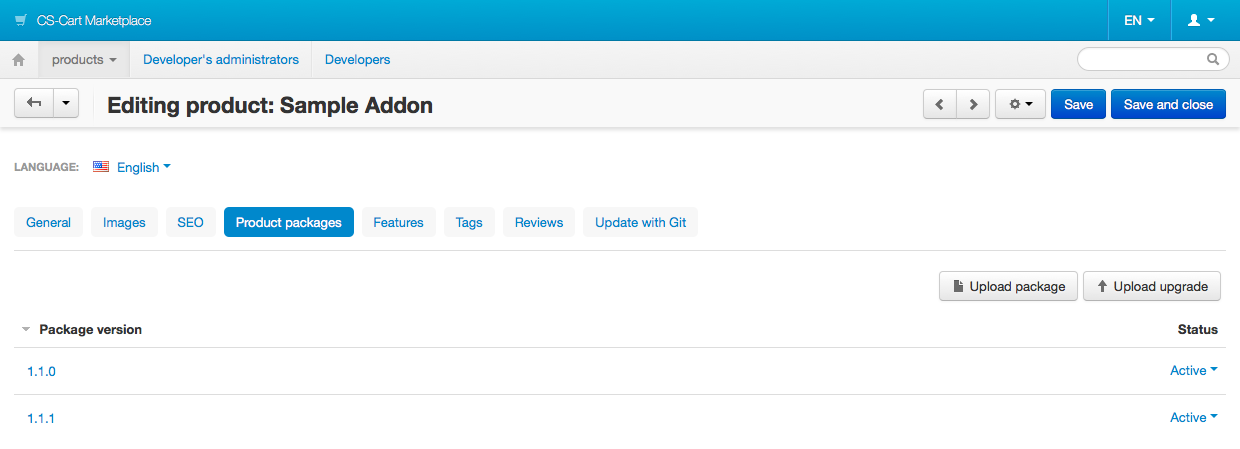
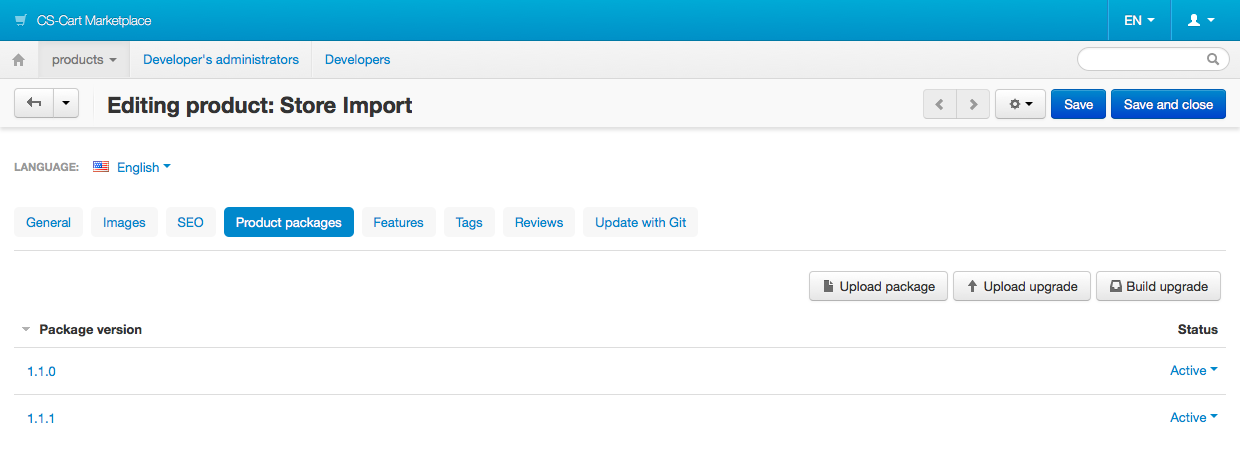
Dev Guide: Addons: Marketplace: Added info about Bitbucket an package building.

diff --git a/developer_guide/addons/marketplace/addon_upgrade.rst b/developer_guide/addons/marketplace/addon_upgrade.rst
@@ -2,10 +2,6 @@
 Distributing Add-on Upgrades via the Marketplace
 ************************************************
 
-=======================================
-Step 1. Build an Add-on Upgrade Package
-=======================================
-
 An upgrade package is an archive that contains all the files necessary to upgrade a customer’s add-on automatically. Normally this archive includes:
 
 * Files that were changed or added in the new version.
@@ -24,9 +20,97 @@ Upgrade packages can be installed in the Upgrade Center in one of the ways:
 
 This article tells how add-on developers can create upgrade packages for their add-ons.
 
--------------------------------------------
-Way 1. Building an Upgrade Package Manually
--------------------------------------------
+===========================================
+Preface: Recommended Structure of an Add-on
+===========================================
+
+.. _marketplace-addon-structure:
+
+If you want to build upgrade packages via the Marketplace, please follow this structure when developing an add-on:
+
+.. code::
+
+    ├── app
+    │   └── addons
+    │       └── [sample_addon]
+    │           ├── addon.xml
+    │           ├── config.php
+    │           ├── func.php
+    │           └── upgrades
+    │               ├── [version1]
+    │               │   ├── migrations
+    │               │   │   ├── 467676233_migration1.php
+    │               │   │   └── 467676233_migration2.php
+    │               │   │
+    │               │   ├── validators
+    │               │   │   ├── validator1.php
+    │               │   │   └── validator2.php
+    │               │   │
+    │               │   ├── scripts
+    │               │   │   ├── pre_script.php
+    │               │   │   └── post_script.php
+    │               │   │
+    │               │   ├── extra_files
+    │               │   │   ├── extra_file1.php
+    │               │   │   └── extra_file2.php
+    │               │   │
+    │               │   └── extra
+    │               │       └── extra.php
+    │               │
+    │               ├── [version2]
+    │                   │   ├── migrations
+    │                   │   │   ├── 467676233_migration1.php
+    │                   │   │   └── 467676233_migration2.php
+    │                   │   │
+    │                   │   ├── validators
+    │                   │   │   ├── validator1.php
+    │                   │   │   └── validator2.php
+    │                   │   │
+    │                   │   ├── scripts
+    │                   │   │   ├── pre_script.php
+    │                   │   │   └── post_script.php
+    │                   │   │
+    │                   │   ├── extra_files
+    │                   │   │   ├── extra_file1.php
+    │                   │   │   └── extra_file2.php
+    │                   │   │
+    │                   │   ├── extra
+    │                   │   │   └── extra.php
+    ...
+
+* **[sample_addon]**—the name of the add-on.
+
+* **[version1]**—a version, for example 1.1.0.
+
+* **[version2]**—a version, for example 1.1.1.
+
+* **app/addons/[sample_addon]/upgrades/[version]/migrations**—a folder with the migrations to be performed when upgrading to this [version].
+
+* **app/addons/[sample_addon]/upgrades/[version]/validators**—a folder with the validators which must run their checks before upgrading to this [version].
+
+* **app/addons/[sample_addon]/upgrades/[version]/scripts**—a folder with pre/post scripts to be executed before and after upgrading to this [version].
+
+* **app/addons/[sample_addon]/upgrades/[version]/extra_files**—a folder with the extra files that are used only during the upgrade and aren't added to CS-Cart/Multi-Vendor.
+ 
+* **app/addons/[sample_addon]/upgrades/[version]/extra/extra.php**—a file for extending **package.json** of the upgrade package.
+
+Files and folders in *app/addons/[sample_addon]/upgrades/[version]* aren't required. For example, if the new version has no changes in the database, there's no need to create a folder with migrations.
+
+.. hint::
+
+    Learn more about the components of an upgrade package :ref:`here <upgrade-package-structure>`.
+
+===============================
+Build an Add-on Upgrade Package
+===============================
+
+----------------------------------------
+Way 1. Build an Upgrade Package Manually
+----------------------------------------
+
+""""""""""""""""""""""""""""""""""
+Step 1. Create the Upgrade Package
+""""""""""""""""""""""""""""""""""
 
 Create an upgrade package as described :doc:`in this article <../../../upgrade/upgrade_addon>`. Instead of creating an upgrade connector you’ll need a Marketplace connector. It must be located in the *app/addons/[addon_name]/Tygh/UpgradeCenter/Connectors/[AddonName]/Connector.php* and have the following content:
 
@@ -147,46 +231,65 @@ Create an upgrade package as described :doc:`in this article <../../../upgrade/u
 
     The Marketplace connector will be built in CS-Cart & Multi-Vendor starting with version 4.4.1. That means you won’t have to create upgrade connectors for these versions.
 
--------------------------------------------------------
-Way 2. Building an Upgrade Package with the Marketplace
--------------------------------------------------------
-
-.. important::
-
-    We plan to implement this functionality in the near future.
-
-=============================================
+"""""""""""""""""""""""""""""""""""""""""""""
 Step 2. Upload the Package to the Marketplace
-=============================================
+"""""""""""""""""""""""""""""""""""""""""""""
 
-2.1. Open the add-on editing page on the Marketplace.
+1. Open the add-on editing page on the Marketplace.
 
-2.2. Go to the **Product packages** tab.
+2. Go to the **Product packages** tab.
 
-2.3. Click **Upload upgrade**.
+3. Click **Upload upgrade**.
 
 .. image:: img/package_list.png
 	:align: center
 	:alt: You can upload an upgrade package on the package list, which is available on the Product packages tab.
 
-2.4. Use the **File** field to select the archive you created.
+4. Use the **File** field to select the archive you created.
 
-2.5. Specify the versions in the **Upgrade from** and **Upgrade to** fields.
+5. Specify the versions in the **Upgrade from** and **Upgrade to** fields.
 
-2.6. (Optional) Enter **Package description**.
+6. (Optional) Enter **Package description**.
 
-2.7. Click **Create**.
+7. Click **Create**.
 
 .. image:: img/upload_upgrade.png
 	:align: center
 	:alt: When you upload an upgrade to the Marketplace,  you specify from and to which versions the add-on is upgraded.
 
+---------------------------------------------------
+Way 2. Build an Upgrade Package via the Marketplace
+---------------------------------------------------
+
+.. important::
+
+    To be able to build upgrade packages via the Marketplace, please follow the :ref:`recommended structure of an add-on <marketplace-addon-structure>`.
+
+1. Open the add-on editing page on the Marketplace.
+
+2. Switch to the **Product packages** tab.
+
+3. Click **Build upgrade**.
+
+.. image:: img/package_list.png
+	:align: center
+	:alt: Go to the Product packages tab and click Build upgrade.
+
+4. Specify the versions in the **Upgrade from** and **Upgrade to** fields.
+
+5. (Optional) Enter **Package description**.
+
+6. Click **Create**.
+
+.. image:: img/build_upgrade_via_marketplace.png
+	:align: center
+	:alt: Specify the properties of the upgrade package you're building.
 
 .. _test-addon-package:
 
-===========================================
-Step 3. View and Test Your Upgrade Packages
-===========================================
+===================================
+View and Test Your Upgrade Packages
+===================================
 
 The list of upgrade packages is available on the **Product packages** tab of your add-on:
 
@@ -209,4 +312,3 @@ You'll find the access token on your profile editing page in the Marketplace:
 .. image:: img/access_token.png
 	:align: center
 	:alt: To test a disabled upgrade package, open the editing page of your profile on the Marketplace.
-

diff --git a/developer_guide/addons/marketplace/git_delivery.rst b/developer_guide/addons/marketplace/git_delivery.rst
@@ -26,7 +26,7 @@ Connecting Repository to the Marketplace
 GitHub
 ------
 
-1. Open the repository of the add-on on GitHub to find out where to get the values for the settings in the Marketplace:
+1. Go to the repository of the add-on on GitHub to find out where to get the values for the settings in the Marketplace:
 
    * **Repository owner**—the username [1].
 
@@ -104,6 +104,64 @@ GitHub
 	:align: center
 	:alt: Enter webhook URL and secret, and select the content type.
 
+---------
+Bitbucket
+---------
+
+1. Go to the repository of the add-on on Bitbucket and switch to the **Source** tab [1] to find out where to get the values for the settings in the Marketplace:
+
+   * **Repository owner**—enter the username from the URL [2].
+
+   * **Repository name**—enter the name of the repository from the URL [3].
+
+   * **Branch name**—enter one of the branches that exist in the repository [4].
+
+.. image:: img/bitbucket_credentials.png
+	:align: center
+	:alt: Enter the repository owner, repository name and branch name.
+
+2. Specify other settings:
+
+   * **Bitbucket username**—your Bitbucket login [5].
+
+   * **Bitbucket password**—your Bitbucket password [6].
+
+   * **Status**—*Active* [7].
+
+3. Save your changes, then copy the URL from the **Webhook URL** field [8].
+
+.. image:: img/bitbucket_webhook_url.png
+	:align: center
+	:alt: Specify the settings, save the changes and copy the Webhook URL.
+
+4. Open your Bitbucket repository.
+
+5. Go to **Settings** [9]. 
+
+6. Switch to **Webhooks** [10].
+
+7. Click **Add webhook** [11].
+
+.. image:: img/bitbucket_add_webhook.png
+	:align: center
+	:alt: Go to Settings: Webhooks and add a new webhook.
+
+8. Configure your new webhook:
+
+   * **Title** [12]—webhook name.
+
+   * **URL** [13]—the value of **Webhook URL** from [8].
+
+   * **Status** [14]—*Active*.
+
+   * **Triggers**—*Repository push* [15].
+
+9. Save your webhook [16].
+
+.. image:: img/bitbucket_webhook_settings.png
+	:align: center
+	:alt: Configure your webhook and save it.
+
 =====================================
 Creating Add-on Releases via Git Tags
 =====================================
@@ -153,17 +211,45 @@ GitHub
 
 1. Open the editing page of the webhook you created.
 
-2. Expand the delivery event [20].
+2. Expand the delivery event [1].
 
-3. Switch to the **Response** tab [21].
+3. Switch to the **Response** tab [2].
 
-4. The response from the server about the building process appears in the Body section [22].
+4. The response from the server about the building process appears in the **Body** section [3].
 
-5. To process the webhook again if there are any errors, click **Redeliver** [23].
+5. To process the webhook again if there are any errors, click **Redeliver** [4].
 
 .. image:: img/github_monitoring.png
 	:align: center
 	:alt: Go to the Response tab of your webhook to see the response from the server about the building process.
+
+---------
+Bitbucket
+---------
+
+1. Go to your repository on Bitbucket.
+
+2. Switch to **Settings**, then to **Webhooks**.
+
+3. Click **View requests** next to the webhook you created [1].
+
+.. image:: img/bitbucket_webhook_requests.png
+	:align: center
+	:alt: Go to the Response tab of your webhook to see the response from the server about the building process.
+
+4. Click **View details** next to an event [2].
+
+.. image:: img/bitbucket_log_details.png
+	:align: center
+	:alt: View the details of an event by clicking the corresponding link.
+
+5. You can find the response of the server in the **Response from http://marketplace.cs-cart.com/update-package/… > Body** section [3].
+
+6. To process the webhook again in case of errors, click **Resend request** [4].
+
+.. image:: img/bitbucket_resend_request.png
+	:align: center
+	:alt: View the response of the server and resend the request, if there are any errors.
 
 ==============
 Error Messages

diff --git a/upgrade/upgrade.rst b/upgrade/upgrade.rst
@@ -146,6 +146,8 @@ After receiving a file, Upgrade Center App unpacks and checks it:
 Package structure
 +++++++++++++++++
 
+.. _upgrade-package-structure:
+
 Here is the approximate package structure:
 
 .. code-block:: none
